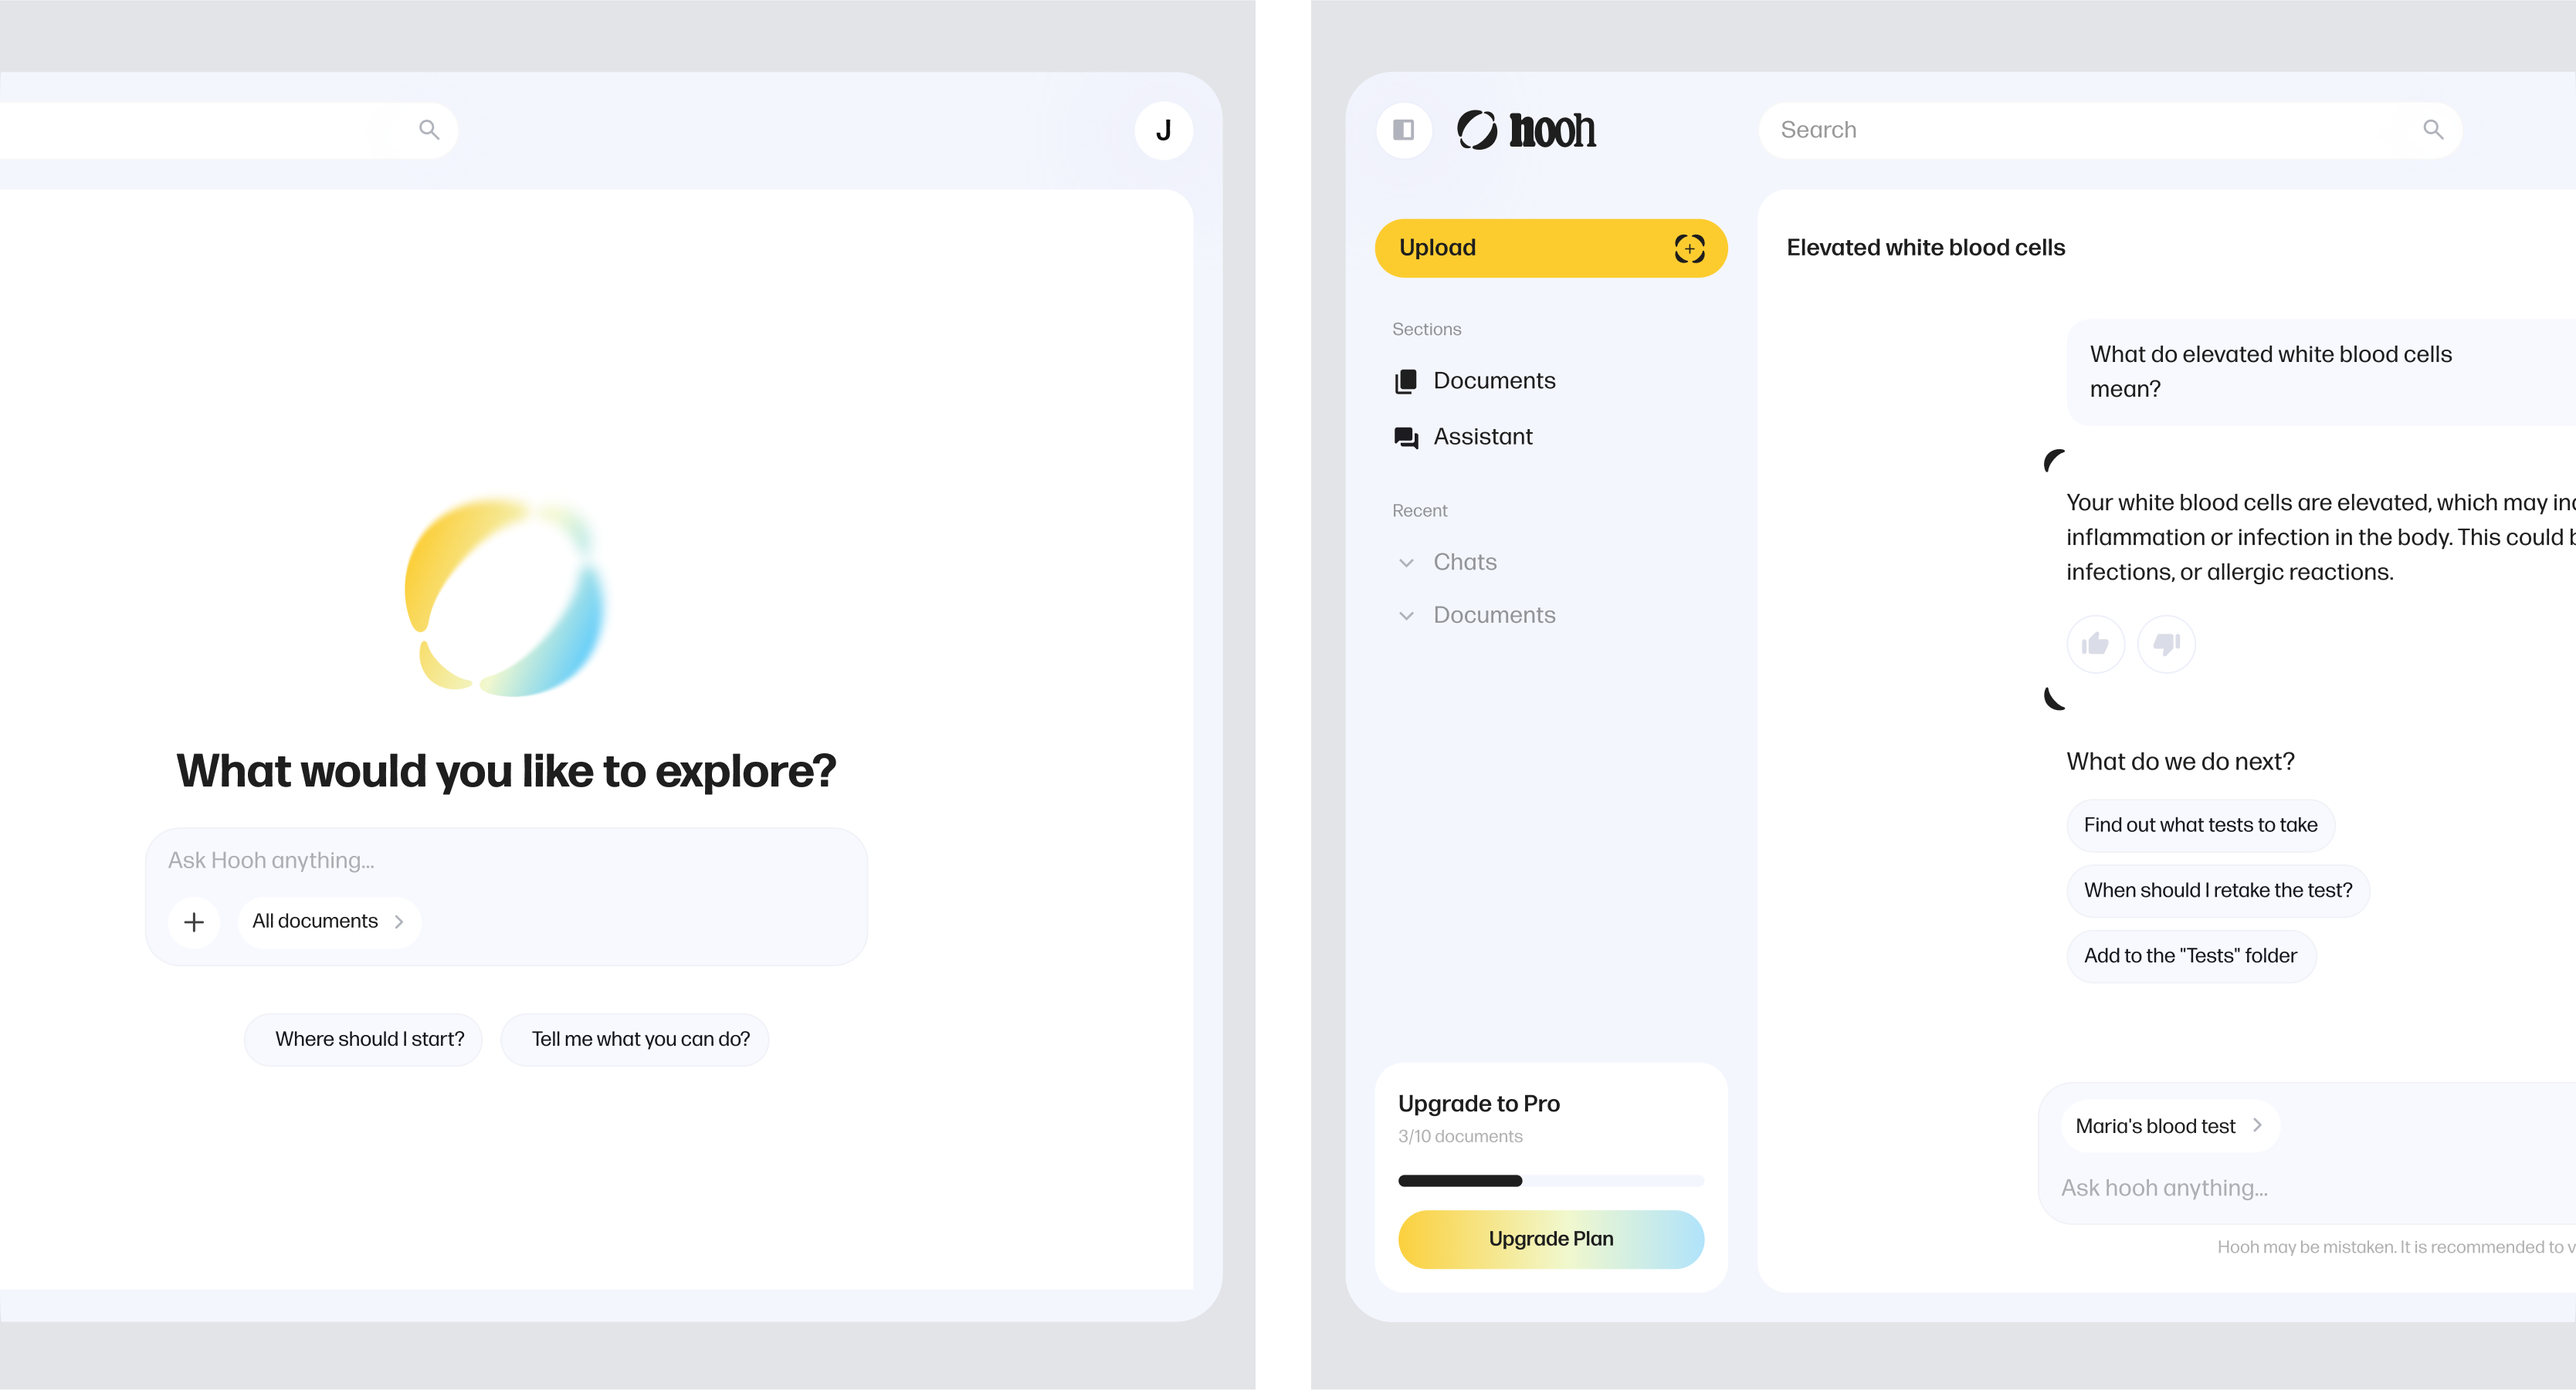
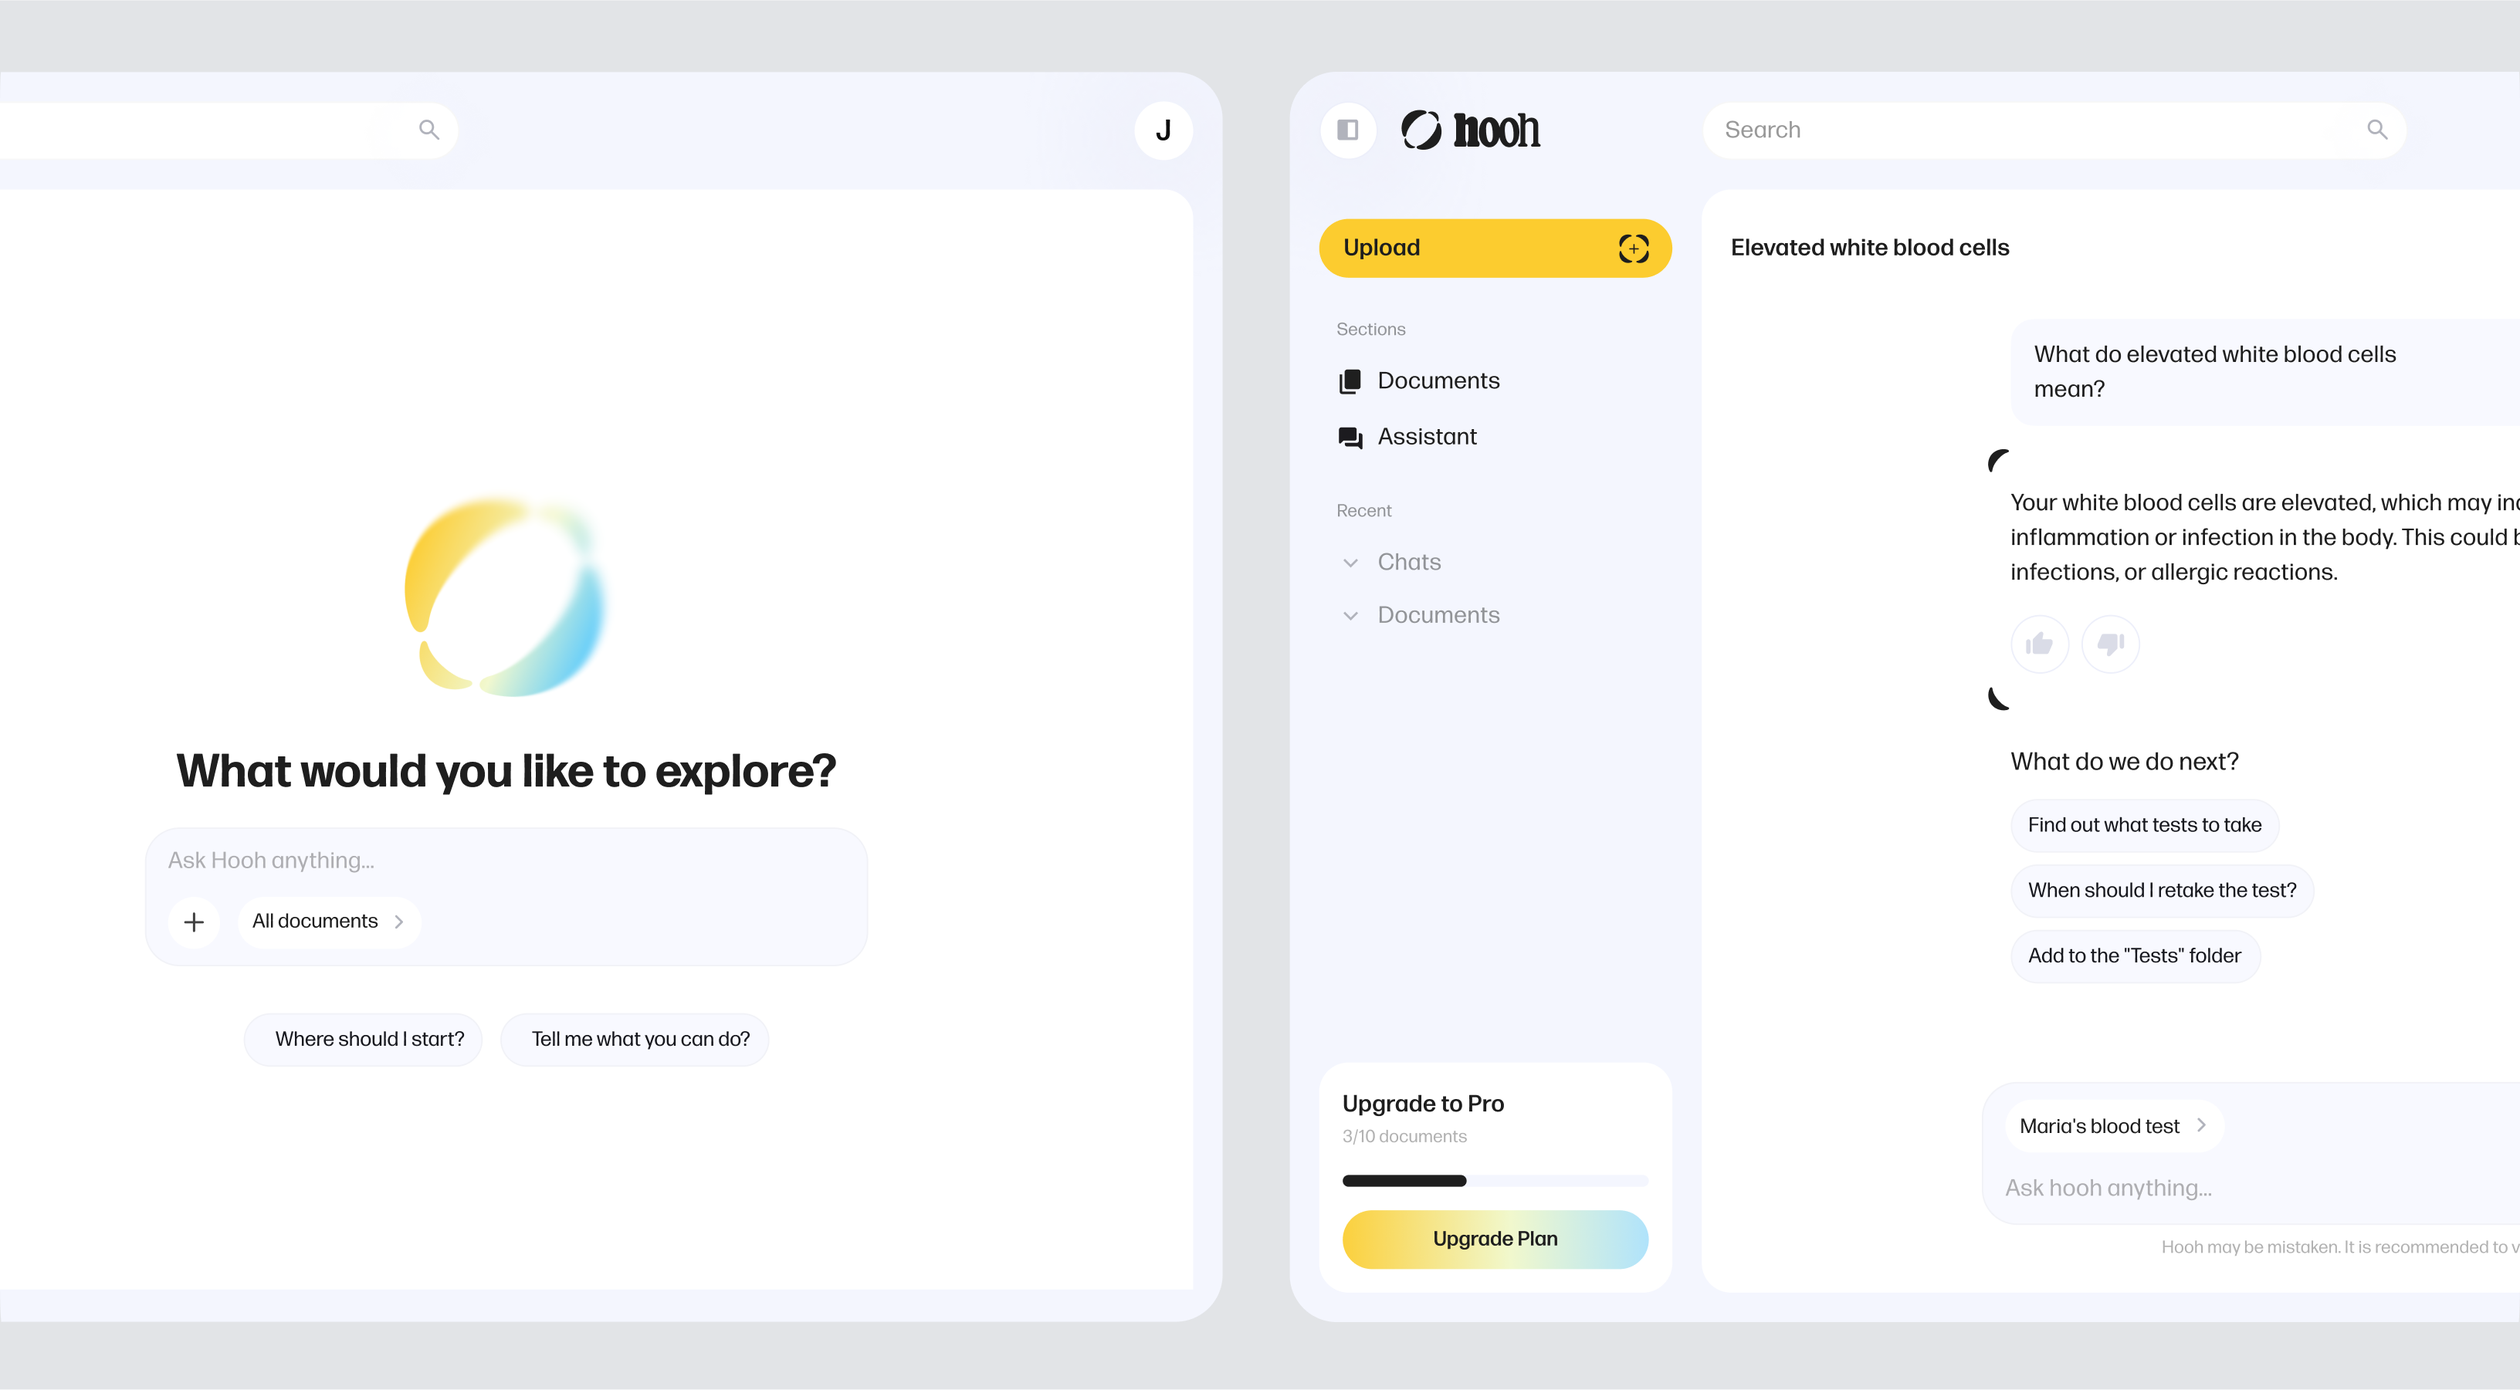
Hooh chatC: keep both screens on a single shared plate
Revert the split into two plates — the reference shows both desktop
screens sitting inside one continuous gray backdrop, so use the
exported composition as-is.

diff --git a/hooh.html b/hooh.html
@@ -165,7 +165,7 @@
         </figure>
 
         <figure class="case__figure">
-          <picture><img src="assets/case-chatC.webp?v=4" alt="Two desktop screens — a fresh Hooh Assistant prompt 'What would you like to explore?' and an in-progress chat about elevated white blood cells with follow-up suggestions" loading="lazy"></picture>
+          <picture><img src="assets/case-chatC.webp?v=5" alt="Two desktop screens on a single backdrop — a fresh Hooh Assistant prompt 'What would you like to explore?' and an in-progress chat about elevated white blood cells with follow-up suggestions" loading="lazy"></picture>
         </figure>
       </section>
 
